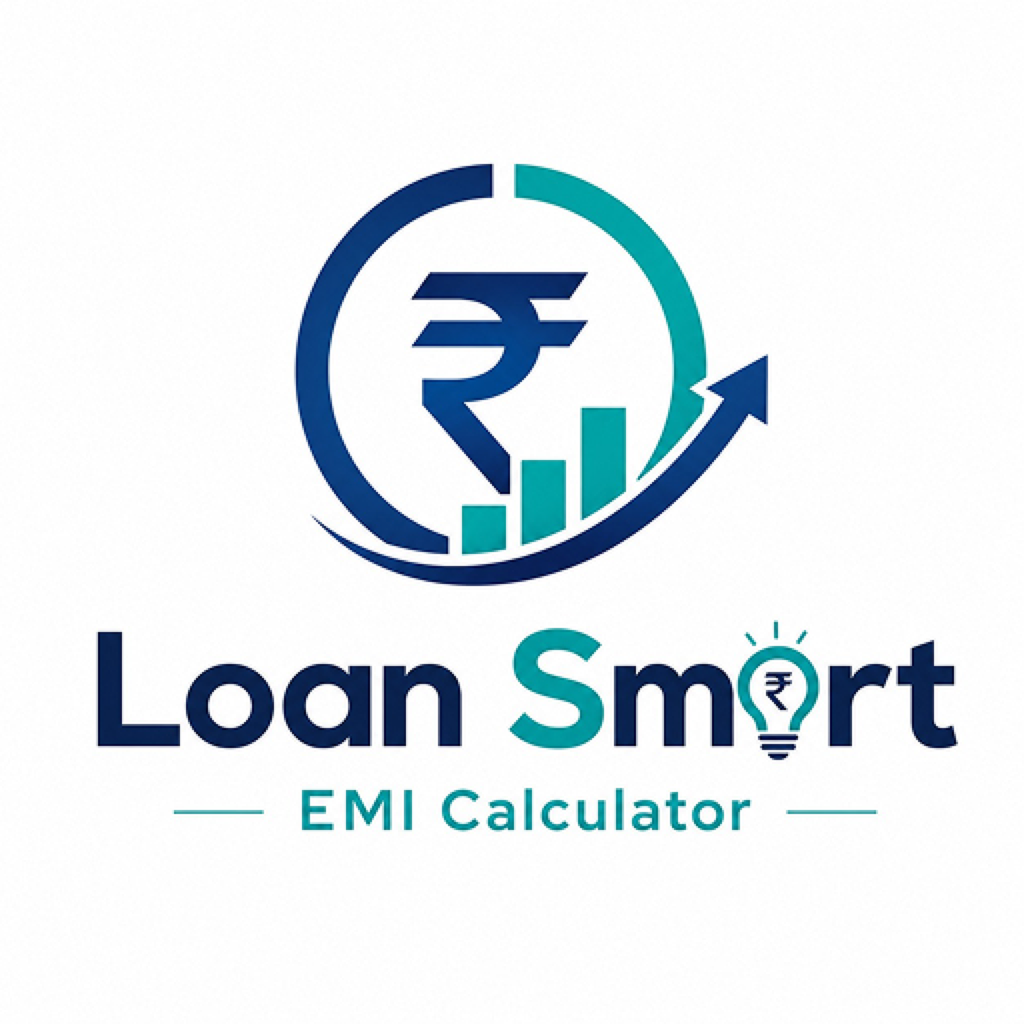
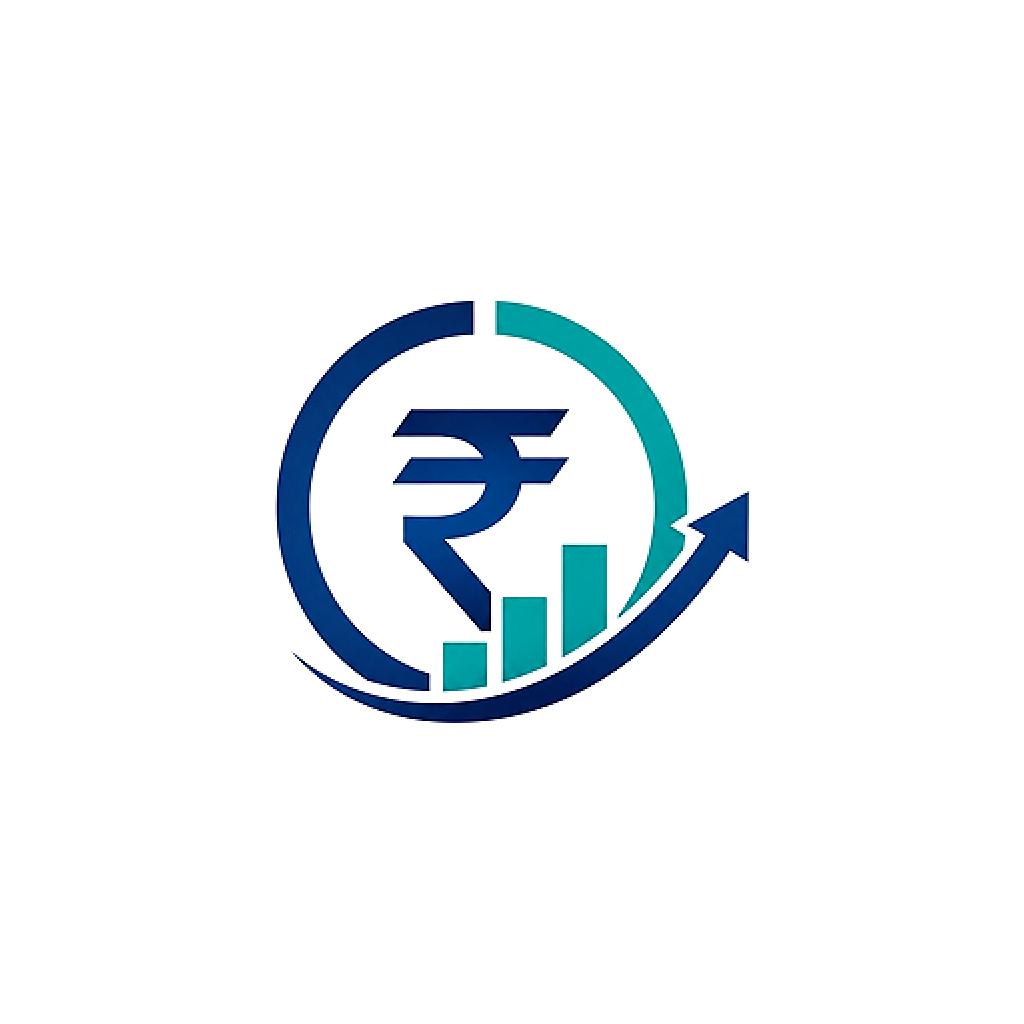
feat: Enhance splash screen branding and update assets

Changed region(s): [[0.0938, 0.1562, 0.9375, 0.8125], [0.7812, 0.7812, 0.8438, 0.8125], [0.1875, 0.7812, 0.25, 0.8125]]

diff --git a/App.tsx b/App.tsx
@@ -52,6 +52,7 @@ SplashScreen.preventAutoHideAsync();
 
 const LANGUAGE_STORAGE_KEY = 'emi_calculator_selected_language';
 const ONBOARDING_SEEN_KEY = 'emi_calculator_onboarding_seen';
+const BRANDED_SPLASH_MIN_DURATION_MS = 1200;
 
 type Screen =
   | 'loading'
@@ -149,6 +150,7 @@ function AppContent() {
         return;
       }
       didBootstrap.current = true;
+      const startedAt = Date.now();
 
       mobileAds()
         .initialize()
@@ -165,12 +167,26 @@ function AppContent() {
 
       // Onboarding is a one-time, first-launch-only flow. Once seen, skip
       // straight to language selection (if never chosen) or home.
-      if (onboardingSeen) {
-        setScreen(savedLanguage ? 'home' : 'language');
-      } else {
-        setScreen('onboarding');
+      const nextScreen: Screen = onboardingSeen
+        ? savedLanguage
+          ? 'home'
+          : 'language'
+        : 'onboarding';
+      const remainingSplashTime =
+        BRANDED_SPLASH_MIN_DURATION_MS - (Date.now() - startedAt);
+
+      if (remainingSplashTime > 0) {
+        await new Promise(resolve => setTimeout(resolve, remainingSplashTime));
       }
 
+      setScreen(nextScreen);
+
+      // Let React actually paint the next screen before hiding the native
+      // splash, so there's no blank flash underneath it — the native splash
+      // is the ONLY splash the user sees; it stays up for the whole bootstrap
+      // + minimum branding duration above, then hands off directly to the
+      // real first screen.
+      await new Promise(resolve => requestAnimationFrame(() => requestAnimationFrame(resolve)));
       await SplashScreen.hideAsync();
     };
 